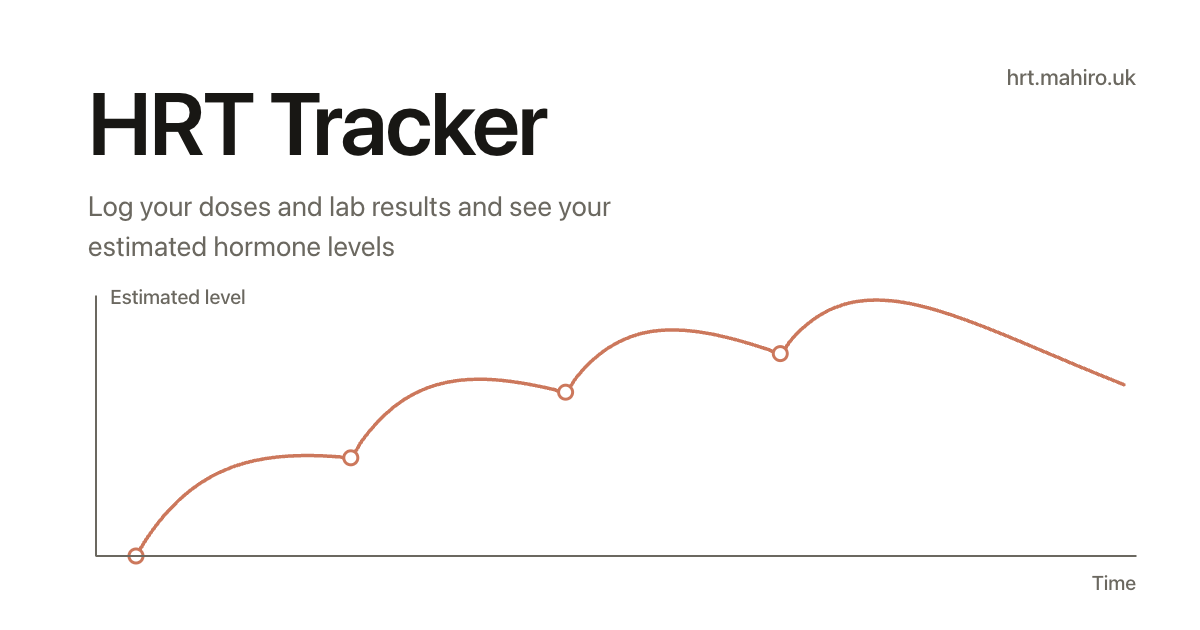
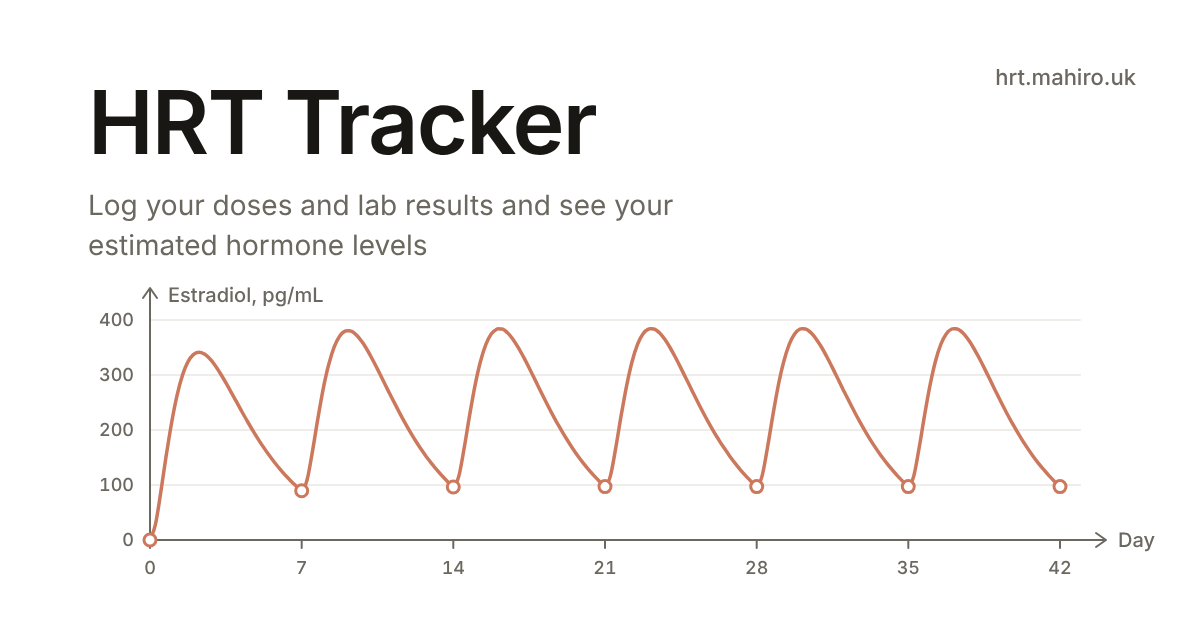
Draw the link preview chart from the app's model, with axes, figures and grid
Claude-Session: https://claude.ai/code/session_01QpoHqnLvpU227zZmMvnwmb

diff --git a/design/og/og.html b/design/og/og.html
@@ -43,6 +43,17 @@
                 stroke-linecap: round;
                 stroke-linejoin: round;
             }
+            svg.art .grid {
+                stroke: oklch(94.5% 0.004 88);
+                stroke-width: 2;
+            }
+            svg.art .tick {
+                fill: var(--text-muted);
+                stroke: none;
+                font-size: 18px;
+                font-weight: 500;
+                font-variant-numeric: tabular-nums;
+            }
             svg.art .axis {
                 stroke: var(--text-muted);
                 stroke-width: 2;
@@ -88,20 +99,48 @@
     <body>
         <div class="card">
             <svg class="art" viewBox="0 0 1200 630" width="1200" height="630" aria-hidden="true">
-                <!-- The modelled level: four doses, each lifting it a little higher -->
+                <!-- Estradiol from weekly 5 mg estradiol valerate injections, run through
+     the app's own model (runSimulation in logic.ts, 70 kg), days 0 to 42 -->
+                <path class="grid" d="M150 485.0 H 1080" />
+                <text class="tick" x="134" y="491.0" text-anchor="end">100</text>
+                <path class="grid" d="M150 430.0 H 1080" />
+                <text class="tick" x="134" y="436.0" text-anchor="end">200</text>
+                <path class="grid" d="M150 375.0 H 1080" />
+                <text class="tick" x="134" y="381.0" text-anchor="end">300</text>
+                <path class="grid" d="M150 320.0 H 1080" />
+                <text class="tick" x="134" y="326.0" text-anchor="end">400</text>
+                <text class="tick" x="134" y="546" text-anchor="end">0</text>
+                <path class="axis" d="M150.0 540 V 548" />
+                <text class="tick" x="150.0" y="574" text-anchor="middle">0</text>
+                <path class="axis" d="M301.7 540 V 548" />
+                <text class="tick" x="301.7" y="574" text-anchor="middle">7</text>
+                <path class="axis" d="M453.3 540 V 548" />
+                <text class="tick" x="453.3" y="574" text-anchor="middle">14</text>
+                <path class="axis" d="M605.0 540 V 548" />
+                <text class="tick" x="605.0" y="574" text-anchor="middle">21</text>
+                <path class="axis" d="M756.7 540 V 548" />
+                <text class="tick" x="756.7" y="574" text-anchor="middle">28</text>
+                <path class="axis" d="M908.3 540 V 548" />
+                <text class="tick" x="908.3" y="574" text-anchor="middle">35</text>
+                <path class="axis" d="M1060.0 540 V 548" />
+                <text class="tick" x="1060.0" y="574" text-anchor="middle">42</text>
+                <path class="axis" d="M150 540 H 1104" />
+                <path class="axis" d="M150 540 V 290" />
+                <path class="axis" d="M1096 533 L 1106 540 L 1096 547" />
+                <path class="axis" d="M143 298 L 150 288 L 157 298" />
+                <text class="label" x="168" y="302">Estradiol, pg/mL</text>
+                <text class="label" x="1118" y="547">Day</text>
                 <path
-                    d="M136.0 556.0 C137.8 553.1 143.2 544.0 146.7 538.6 C150.3 533.3 153.9 528.3 157.5 523.7 C161.1 519.1 164.6 514.9 168.2 510.9 C171.8 507.0 175.4 503.4 179.0 500.0 C182.5 496.7 186.1 493.7 189.7 490.8 C193.3 488.0 196.9 485.4 200.4 483.1 C204.0 480.7 207.6 478.6 211.2 476.6 C214.8 474.6 218.3 472.9 221.9 471.3 C225.5 469.6 229.1 468.2 232.7 466.9 C236.2 465.6 239.8 464.5 243.4 463.4 C247.0 462.4 250.6 461.5 254.1 460.7 C257.7 459.9 261.3 459.2 264.9 458.7 C268.4 458.1 272.0 457.6 275.6 457.2 C279.2 456.8 282.8 456.5 286.3 456.2 C289.9 456.0 293.5 455.8 297.1 455.7 C300.7 455.6 304.2 455.5 307.8 455.5 C311.4 455.5 315.0 455.6 318.6 455.7 C322.1 455.8 325.7 456.0 329.3 456.2 C332.9 456.4 336.5 456.6 340.0 456.9 C343.6 457.2 347.2 460.4 350.8 457.8 C354.4 455.2 357.9 446.5 361.5 441.5 C365.1 436.5 368.7 432.0 372.3 427.8 C375.8 423.7 379.4 419.9 383.0 416.4 C386.6 413.0 390.2 409.9 393.7 407.0 C397.3 404.2 400.9 401.6 404.5 399.3 C408.1 397.0 411.6 395.0 415.2 393.2 C418.8 391.4 422.4 389.8 426.0 388.4 C429.5 387.0 433.1 385.8 436.7 384.8 C440.3 383.7 443.9 382.9 447.4 382.2 C451.0 381.4 454.6 380.9 458.2 380.4 C461.8 380.0 465.3 379.7 468.9 379.5 C472.5 379.3 476.1 379.2 479.7 379.2 C483.2 379.2 486.8 379.4 490.4 379.5 C494.0 379.7 497.6 380.0 501.1 380.3 C504.7 380.7 508.3 381.1 511.9 381.6 C515.4 382.1 519.0 382.6 522.6 383.2 C526.2 383.8 529.8 384.4 533.3 385.1 C536.9 385.8 540.5 386.5 544.1 387.3 C547.7 388.0 551.2 388.8 554.8 389.7 C558.4 390.5 562.0 394.2 565.6 392.2 C569.1 390.2 572.7 382.1 576.3 377.6 C579.9 373.1 583.5 369.2 587.0 365.5 C590.6 361.9 594.2 358.6 597.8 355.7 C601.4 352.7 604.9 350.1 608.5 347.8 C612.1 345.5 615.7 343.5 619.3 341.6 C622.8 339.8 626.4 338.3 630.0 337.0 C633.6 335.7 637.2 334.6 640.7 333.6 C644.3 332.7 647.9 332.0 651.5 331.4 C655.1 330.9 658.6 330.5 662.2 330.2 C665.8 330.0 669.4 329.9 673.0 329.9 C676.5 329.9 680.1 330.0 683.7 330.3 C687.3 330.5 690.9 330.9 694.4 331.3 C698.0 331.7 701.6 332.3 705.2 332.9 C708.8 333.5 712.3 334.2 715.9 334.9 C719.5 335.7 723.1 336.5 726.7 337.4 C730.2 338.2 733.8 339.2 737.4 340.1 C741.0 341.1 744.6 342.1 748.1 343.2 C751.7 344.2 755.3 345.4 758.9 346.5 C762.4 347.6 766.0 348.8 769.6 350.0 C773.2 351.2 776.8 355.3 780.3 353.6 C783.9 351.9 787.5 344.1 791.1 340.0 C794.7 335.9 798.2 332.3 801.8 328.9 C805.4 325.6 809.0 322.7 812.6 320.1 C816.1 317.4 819.7 315.2 823.3 313.2 C826.9 311.1 830.5 309.4 834.0 307.9 C837.6 306.4 841.2 305.2 844.8 304.2 C848.4 303.1 851.9 302.4 855.5 301.7 C859.1 301.1 862.7 300.7 866.3 300.4 C869.8 300.1 873.4 300.0 877.0 300.0 C880.6 300.0 884.2 300.2 887.7 300.5 C891.3 300.7 894.9 301.1 898.5 301.6 C902.1 302.1 905.6 302.8 909.2 303.4 C912.8 304.1 916.4 304.9 920.0 305.8 C923.5 306.6 927.1 307.6 930.7 308.5 C934.3 309.5 937.9 310.6 941.4 311.7 C945.0 312.8 948.6 314.0 952.2 315.2 C955.8 316.4 959.3 317.6 962.9 318.9 C966.5 320.2 970.1 321.5 973.7 322.9 C977.2 324.2 980.8 325.6 984.4 327.0 C988.0 328.4 991.6 329.8 995.1 331.2 C998.7 332.7 1002.3 334.1 1005.9 335.6 C1009.4 337.1 1013.0 338.6 1016.6 340.0 C1020.2 341.5 1023.8 343.0 1027.3 344.5 C1030.9 346.0 1034.5 347.6 1038.1 349.1 C1041.7 350.6 1045.2 352.1 1048.8 353.6 C1052.4 355.1 1056.0 356.6 1059.6 358.1 C1063.1 359.7 1066.7 361.2 1070.3 362.7 C1073.9 364.2 1077.5 365.7 1081.0 367.2 C1084.6 368.7 1088.2 370.1 1091.8 371.6 C1095.4 373.1 1098.9 374.6 1102.5 376.0 C1106.1 377.5 1109.7 379.0 1113.3 380.4 C1116.8 381.8 1122.2 384.0 1124.0 384.7"
+                    d="M150.0 540.0 C151.8 534.9 153.6 532.6 155.4 524.6 C157.2 516.6 159.0 503.5 160.8 492.0 C162.6 480.5 164.4 467.2 166.2 455.6 C168.1 444.0 169.9 432.4 171.7 422.3 C173.5 412.2 175.3 403.1 177.1 395.2 C178.9 387.3 180.7 380.7 182.5 375.1 C184.3 369.6 186.1 365.3 187.9 361.9 C189.7 358.4 191.5 356.2 193.3 354.6 C195.1 353.0 196.9 352.2 198.8 352.2 C200.6 352.2 202.4 352.8 204.2 353.9 C206.0 354.9 207.8 356.6 209.6 358.5 C211.4 360.3 213.2 362.7 215.0 365.2 C216.8 367.7 218.6 370.6 220.4 373.5 C222.2 376.4 224.0 379.5 225.8 382.6 C227.6 385.8 229.4 389.1 231.2 392.3 C233.1 395.6 234.9 398.9 236.7 402.2 C238.5 405.5 240.3 408.8 242.1 412.0 C243.9 415.2 245.7 418.4 247.5 421.5 C249.3 424.6 251.1 427.7 252.9 430.7 C254.7 433.7 256.5 436.6 258.3 439.4 C260.1 442.2 261.9 445.0 263.8 447.6 C265.6 450.3 267.4 452.9 269.2 455.3 C271.0 457.8 272.8 460.2 274.6 462.5 C276.4 464.8 278.2 467.0 280.0 469.1 C281.8 471.3 283.6 473.3 285.4 475.3 C287.2 477.2 289.0 479.1 290.8 480.9 C292.6 482.7 294.4 484.4 296.2 486.1 C298.1 487.7 299.9 490.8 301.7 490.8 C303.5 490.8 305.3 486.4 307.1 479.7 C308.9 473.1 310.7 461.3 312.5 451.1 C314.3 440.9 316.1 428.8 317.9 418.4 C319.7 407.9 321.5 397.4 323.3 388.4 C325.1 379.4 326.9 371.2 328.8 364.3 C330.6 357.4 332.4 351.6 334.2 346.9 C336.0 342.3 337.8 338.8 339.6 336.2 C341.4 333.5 343.2 332.0 345.0 331.1 C346.8 330.3 348.6 330.9 350.4 330.9 C352.2 330.9 354.0 332.8 355.8 334.4 C357.6 336.0 359.4 338.3 361.2 340.7 C363.1 343.1 364.9 346.0 366.7 349.0 C368.5 352.0 370.3 355.3 372.1 358.7 C373.9 362.0 375.7 365.6 377.5 369.1 C379.3 372.7 381.1 376.4 382.9 380.0 C384.7 383.6 386.5 387.3 388.3 390.9 C390.1 394.5 391.9 398.2 393.8 401.7 C395.6 405.2 397.4 408.7 399.2 412.1 C401.0 415.5 402.8 418.9 404.6 422.1 C406.4 425.4 408.2 428.5 410.0 431.6 C411.8 434.6 413.6 437.6 415.4 440.5 C417.2 443.3 419.0 446.1 420.8 448.8 C422.6 451.4 424.4 454.0 426.2 456.5 C428.1 459.0 429.9 461.4 431.7 463.6 C433.5 465.9 435.3 468.1 437.1 470.2 C438.9 472.4 440.7 474.4 442.5 476.3 C444.3 478.2 446.1 480.1 447.9 481.9 C449.7 483.7 451.5 487.0 453.3 487.0 C455.1 487.0 456.9 482.7 458.8 476.2 C460.6 469.7 462.4 458.0 464.2 447.9 C466.0 437.7 467.8 425.8 469.6 415.4 C471.4 405.0 473.2 394.6 475.0 385.7 C476.8 376.7 478.6 368.6 480.4 361.8 C482.2 354.9 484.0 349.3 485.8 344.7 C487.6 340.0 489.4 336.6 491.2 334.1 C493.1 331.5 494.9 330.1 496.7 329.2 C498.5 328.4 500.3 329.1 502.1 329.1 C503.9 329.1 505.7 331.1 507.5 332.8 C509.3 334.4 511.1 336.7 512.9 339.2 C514.7 341.7 516.5 344.6 518.3 347.6 C520.1 350.7 521.9 354.0 523.8 357.4 C525.6 360.8 527.4 364.4 529.2 368.0 C531.0 371.6 532.8 375.3 534.6 378.9 C536.4 382.6 538.2 386.3 540.0 390.0 C541.8 393.6 543.6 397.2 545.4 400.8 C547.2 404.4 549.0 407.9 550.8 411.3 C552.6 414.7 554.4 418.1 556.2 421.4 C558.1 424.6 559.9 427.8 561.7 430.9 C563.5 434.0 565.3 437.0 567.1 439.8 C568.9 442.7 570.7 445.5 572.5 448.2 C574.3 450.9 576.1 453.5 577.9 456.0 C579.7 458.5 581.5 460.9 583.3 463.2 C585.1 465.5 586.9 467.7 588.8 469.8 C590.6 471.9 592.4 473.9 594.2 475.9 C596.0 477.8 597.8 479.7 599.6 481.5 C601.4 483.3 603.2 486.6 605.0 486.6 C606.8 486.6 608.6 482.4 610.4 475.9 C612.2 469.4 614.0 457.7 615.8 447.6 C617.6 437.5 619.4 425.5 621.2 415.1 C623.1 404.8 624.9 394.3 626.7 385.4 C628.5 376.5 630.3 368.4 632.1 361.5 C633.9 354.7 635.7 349.1 637.5 344.4 C639.3 339.8 641.1 336.4 642.9 333.9 C644.7 331.3 646.5 329.9 648.3 329.1 C650.1 328.2 651.9 329.0 653.8 329.0 C655.6 329.0 657.4 330.9 659.2 332.6 C661.0 334.3 662.8 336.6 664.6 339.1 C666.4 341.6 668.2 344.5 670.0 347.5 C671.8 350.6 673.6 353.9 675.4 357.3 C677.2 360.7 679.0 364.3 680.8 367.9 C682.6 371.5 684.4 375.2 686.2 378.8 C688.1 382.5 689.9 386.2 691.7 389.9 C693.5 393.5 695.3 397.2 697.1 400.7 C698.9 404.3 700.7 407.8 702.5 411.2 C704.3 414.7 706.1 418.0 707.9 421.3 C709.7 424.6 711.5 427.7 713.3 430.8 C715.1 433.9 716.9 436.9 718.8 439.8 C720.6 442.7 722.4 445.5 724.2 448.1 C726.0 450.8 727.8 453.4 729.6 455.9 C731.4 458.4 733.2 460.8 735.0 463.1 C736.8 465.4 738.6 467.6 740.4 469.8 C742.2 471.9 744.0 473.9 745.8 475.9 C747.6 477.8 749.4 479.7 751.2 481.5 C753.1 483.3 754.9 486.6 756.7 486.6 C758.5 486.6 760.3 482.4 762.1 475.9 C763.9 469.3 765.7 457.7 767.5 447.5 C769.3 437.4 771.1 425.5 772.9 415.1 C774.7 404.7 776.5 394.3 778.3 385.4 C780.1 376.5 781.9 368.3 783.8 361.5 C785.6 354.7 787.4 349.0 789.2 344.4 C791.0 339.8 792.8 336.4 794.6 333.9 C796.4 331.3 798.2 329.9 800.0 329.0 C801.8 328.2 803.6 329.0 805.4 329.0 C807.2 329.0 809.0 330.9 810.8 332.6 C812.6 334.3 814.4 336.6 816.2 339.1 C818.1 341.5 819.9 344.5 821.7 347.5 C823.5 350.5 825.3 353.9 827.1 357.3 C828.9 360.7 830.7 364.3 832.5 367.9 C834.3 371.5 836.1 375.2 837.9 378.8 C839.7 382.5 841.5 386.2 843.3 389.9 C845.1 393.5 846.9 397.2 848.8 400.7 C850.6 404.3 852.4 407.8 854.2 411.2 C856.0 414.7 857.8 418.0 859.6 421.3 C861.4 424.6 863.2 427.7 865.0 430.8 C866.8 433.9 868.6 436.9 870.4 439.8 C872.2 442.7 874.0 445.4 875.8 448.1 C877.6 450.8 879.4 453.4 881.2 455.9 C883.1 458.4 884.9 460.8 886.7 463.1 C888.5 465.4 890.3 467.6 892.1 469.7 C893.9 471.9 895.7 473.9 897.5 475.9 C899.3 477.8 901.1 479.7 902.9 481.5 C904.7 483.2 906.5 486.6 908.3 486.6 C910.1 486.6 911.9 482.4 913.8 475.9 C915.6 469.3 917.4 457.7 919.2 447.5 C921.0 437.4 922.8 425.4 924.6 415.1 C926.4 404.7 928.2 394.3 930.0 385.4 C931.8 376.5 933.6 368.3 935.4 361.5 C937.2 354.7 939.0 349.0 940.8 344.4 C942.6 339.8 944.4 336.4 946.2 333.9 C948.1 331.3 949.9 329.8 951.7 329.0 C953.5 328.2 955.3 329.0 957.1 329.0 C958.9 329.0 960.7 330.9 962.5 332.6 C964.3 334.3 966.1 336.6 967.9 339.1 C969.7 341.5 971.5 344.5 973.3 347.5 C975.1 350.5 976.9 353.9 978.8 357.3 C980.6 360.7 982.4 364.3 984.2 367.9 C986.0 371.5 987.8 375.2 989.6 378.8 C991.4 382.5 993.2 386.2 995.0 389.9 C996.8 393.5 998.6 397.2 1000.4 400.7 C1002.2 404.3 1004.0 407.8 1005.8 411.2 C1007.6 414.7 1009.4 418.0 1011.2 421.3 C1013.1 424.5 1014.9 427.7 1016.7 430.8 C1018.5 433.9 1020.3 436.9 1022.1 439.8 C1023.9 442.7 1025.7 445.4 1027.5 448.1 C1029.3 450.8 1031.1 453.4 1032.9 455.9 C1034.7 458.4 1036.5 460.8 1038.3 463.1 C1040.1 465.4 1041.9 467.6 1043.8 469.7 C1045.6 471.9 1047.4 473.9 1049.2 475.9 C1051.0 477.8 1052.8 479.7 1054.6 481.5 C1056.4 483.2 1058.2 484.9 1060.0 486.6"
                     stroke-width="3.5"
                 />
-                <!-- Hollow dose rings, as on the Overview chart -->
-                <circle class="ring" cx="136.0" cy="556.0" r="7" />
-                <circle class="ring" cx="350.8" cy="457.8" r="7" />
-                <circle class="ring" cx="565.6" cy="392.2" r="7" />
-                <circle class="ring" cx="780.3" cy="353.6" r="7" />
-                <!-- Axes, in text-muted like the Overview chart's -->
-                <path class="axis" d="M96 296 L 96 556 L 1136 556" />
-                <text class="label" x="110" y="304">Estimated level</text>
-                <text class="label" x="1136" y="590" text-anchor="end">Time</text>
+                <circle class="ring" cx="150.0" cy="540.0" r="6" />
+                <circle class="ring" cx="301.7" cy="490.8" r="6" />
+                <circle class="ring" cx="453.3" cy="487.0" r="6" />
+                <circle class="ring" cx="605.0" cy="486.6" r="6" />
+                <circle class="ring" cx="756.7" cy="486.6" r="6" />
+                <circle class="ring" cx="908.3" cy="486.6" r="6" />
+                <circle class="ring" cx="1060.0" cy="486.6" r="6" />
             </svg>
             <div class="words">
                 <h1>HRT Tracker</h1>

diff --git a/design/og/README.md b/design/og/README.md
@@ -5,9 +5,10 @@ a link to hrt.mahiro.uk is shared (the `og:image` and `twitter:image` tags in
 `index.html`).
 
 It follows the app's design system: the white page, the system type stack,
-`text` and `text-muted` for the words and axes, and the chart line in `brand`
-with hollow dose rings, as on the Overview. The curve is four doses of a simple
-absorb and clear model; it is a picture, not a real estimate.
+`text` and `text-muted` for the words, axes and figures, `chart-grid` lines, and
+the chart line in `brand` with hollow dose rings, as on the Overview. The curve
+is real model output: weekly 5 mg estradiol valerate injections at 70 kg, run
+through `runSimulation` in `logic.ts` and sampled every 6 hours for 42 days.
 
 To regenerate after an edit:
 
